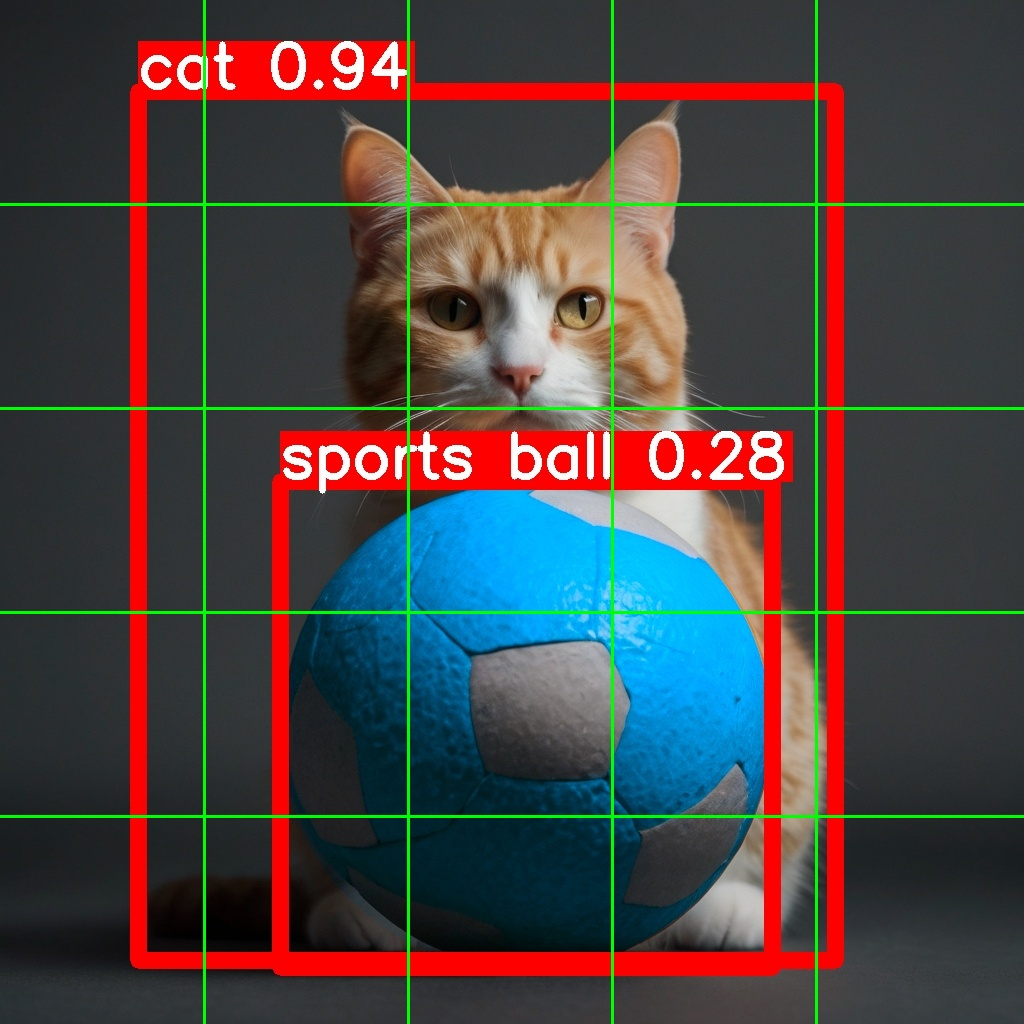
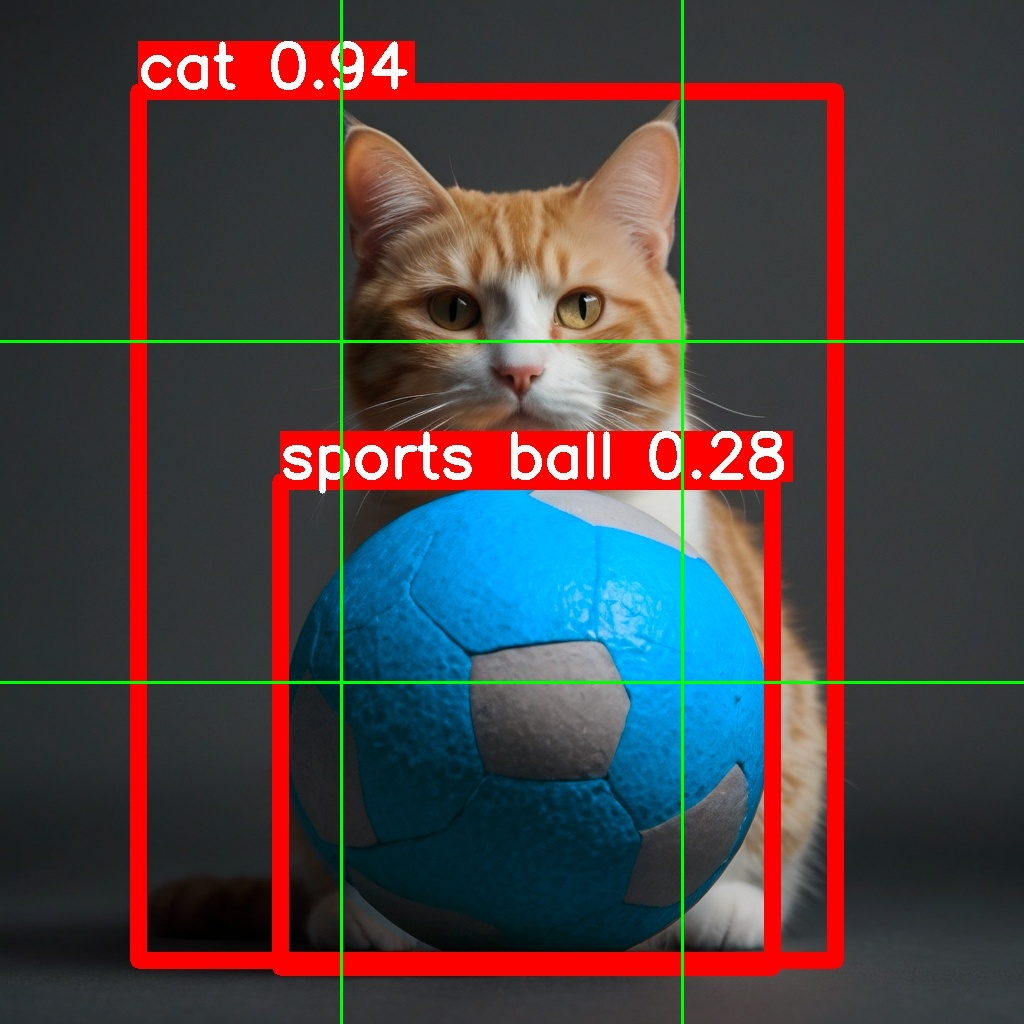
gridded updated

Changed region(s): [[0.0, 0.0, 1.0, 1.0]]

diff --git a/Marco 2025/YOLO/assets/code/Add_grid.py b/Marco 2025/YOLO/assets/code/Add_grid.py
@@ -56,6 +56,6 @@ def add_grid_to_image(image_path, num_squares_x=10, num_squares_y=10, color=(0, 
     cv2.destroyAllWindows()
 
 # Exemplo de uso
-n = 5 # Número de quadrados
-image_path = r"Marco 2025\YOLO\assets\img\cats\image7.jpg"  # Substitua pelo caminho correto da sua imagem
+n = 3 # Número de quadrados
+image_path = r"Marco 2025\YOLO\assets\img\cats\image7_detect.jpg"  # Substitua pelo caminho correto da sua imagem
 add_grid_to_image(image_path, num_squares_x=n, num_squares_y=n, color=(0, 255, 0), thickness=2)
